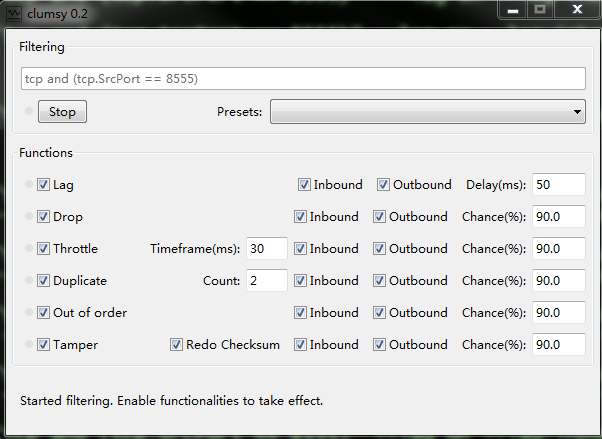
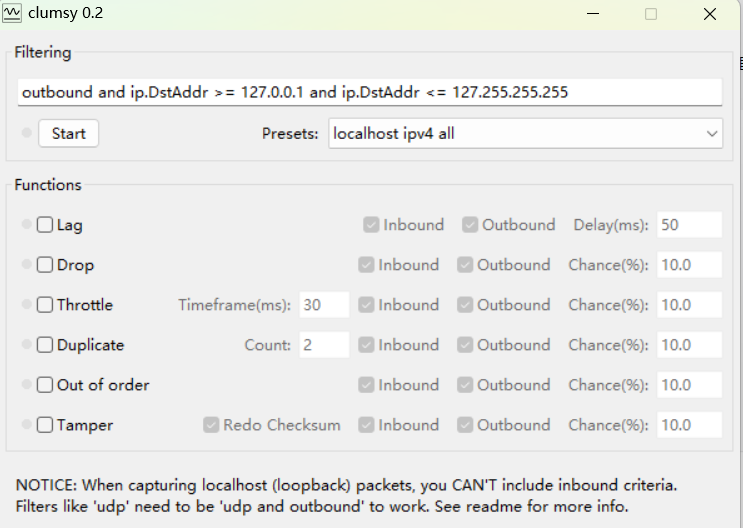
update

diff --git a/_posts/2018-05-06-网络干扰模拟.md b/_posts/2018-05-06-网络干扰模拟.md
@@ -14,11 +14,11 @@ excerpt_separator: <!--more-->
 
 # 1. 背景
 
-有一回一个Windows软件部署到草原，通过WIFI网络访问几公里之外的视频源，由于网络不好，图像严重卡顿、引发异常崩溃，当时公司环境无法模拟，也不能远程调试软件，阻碍项目交付。这也是许多**ToB行业常见现象，开发环境中网络QoS很好，生产环境却各有差异，由于除了插拔网线之外难以模拟网络QoS的变化，继而忽视此类测试，自然而然留下了可靠性问题，同样由于没有模拟环境，此类问题很难快速解决。**
+有一回一个Windows软件部署到草原，通过WIFI网络访问几公里之外的视频源，由于网络不好，图像严重卡顿、引发崩溃。当时公司环境无法模拟，也不能远程调试软件，阻碍交付和回款。这也是许多**ToB行业常见现象，开发环境一切很好，生产环境各有差异，结果千奇百态。由于除了插拔网线之外难以模拟网络QoS变化，继而忽视此类测试，自然而然留下了可靠性问题，很难快速解决。**
 
-其实软件行业发展数十年，你遇到的大多数基础问题早就被解决过不止一次，Google一搜就找到[How can I simulate a bad internet connection for testing purposes?](https://gamedev.stackexchange.com/questions/61483/how-can-i-simulate-a-bad-internet-connection-for-testing-purposes)，MAC/Linux/Windows主流操作系统都有方案，Windows上开发环境用[Clumsy](https://github.com/jagt/clumsy)轻松模拟出网络QoS变化后每次都能复现崩溃，后面顺理成章地解决了问题。
+其实软件行业发展数十年，你遇到的大多数基础问题早就被解决过不止一次，Google找到[How can I simulate a bad internet connection for testing purposes?](https://gamedev.stackexchange.com/questions/61483/how-can-i-simulate-a-bad-internet-connection-for-testing-purposes)，MAC/Linux/Windows主流操作系统都有方案，Windows上用[Clumsy](https://github.com/jagt/clumsy)轻松模拟出网络QoS变化后每次都能复现崩溃，后面顺理成章地解决了问题。
 
-即便如此，**事后解决再多bug都是下策，因为此时已经消耗了各个角色的时间和人心成本，修修补补可以提高下限，要突破软件价值的上限天花板，节省成本，从而把资源投入到追寻更高价值的活动上来，应在计划之初重视软件使用和依赖环境，从软件六性出发完善测试用例，虽然有困难、做不到完美，但比无视会强很多，这样从一开始就帮助各个角色对软件产品使用和依赖环境有一个框架性认知，开展具体工作时除了计划中的眼下一亩三分地，还能看到最后的要求和约束，落实到每一项工作，否则容易走偏，这就是品质之道。**
+即便如此，**事后解决再多bug也不算光荣，因为已经消耗了各个角色的时间和人心成本，修修补补可以提高下限，要突破软件价值的上限天花板，节省成本、把资源投入到追寻更高价值的活动上来，应在计划之初重视软件使用和依赖环境，从软件六性出发完善测试用例，虽有困难、也一定做不到全面，但从一开始就帮助各个角色对软件使用和依赖环境有一个框架性认知对齐，每个人做眼下的具体工作时仍然知道有一个最后的目标和约束，从而保障每一项工作更贴合长远方向、更仔细，避免走偏、低质，这就是品质之道。**
 
 下面简单介绍下Clumsy。
 
@@ -29,21 +29,25 @@ excerpt_separator: <!--more-->
 
 ## 2.1. 运行
 
-下载后可以手动点击软件，在**filtering**下方**Presets**下拉框选择某个常用选项后会自动产生数据包的过滤器填写到输入框，你也可以继续手动编辑过滤器。点击**Stop**按钮关闭干扰，再次点击即可开启。
+下载后手动点击软件，默认过滤条件是**Presets**右侧的**localhost ipv4 all**，作为过滤器显示到**Filtering**输入框，你可以继续编辑。
 
-![clumsy示例](/assets/img/post/2018-05-06-clumsy/clumsy.png)
+![clumsy](/assets/img/post/2018-05-06-clumsy/clumsy.png)
 
-或者通过命令行启动软件，要求对来自8555的TCP数据包执行干扰：
+点击**Start**开始干扰，点击**Stop**(和Start同一个)按钮关闭干扰。
+
+或者通过命令行启动软件，干扰来自8555的TCP数据包：
 
 `clumsy.exe --filter "tcp and (tcp.SrcPort == 8555)" --lag on --lag-inbound on --lag-outbound on --lag-delay 90 --drop on --drop-inbound on --drop-outbound on --drop-chance 90.0  --throttle on --throttle-timeframe 30 --throttle-inbound on --throttle-outbound on --throttle-chance 90.0  --duplicate on --duplicate-count 2 --duplicate-inbound on --duplicate-outbound on --duplicate-chance 90.0 --ood on --ood-inbound on --ood-outbound on --ood-chance 90.0  --tamper on --tamper-inbound on --tamper-outbound on --tamper-chance 90.0`
 
-**有了命令行支持，可以轻松使用Python之类脚本制作定时、按需干扰，通过定义不同干扰参数组合的测试用例，完善网络QoS变化的可靠性测试。**
+![clumsy_cmd](/assets/img/post/2018-05-06-clumsy/clumsy_cmd.png)
 
-## 2.2. 过滤器
+干扰方式如**Functions**下方参数，后面会介绍。**有了命令行支持，可以轻松使用Python之类脚本制作定时、按需干扰，通过定义不同干扰参数组合的测试用例，完善网络QoS变化的可靠性测试。**
 
-命令行中通过`--filter`指定网络参数来标识干扰什么样的网络包，比如指定源IP、TCP/UDP，以及端号等多种过滤条件的组合。和编辑点击GUI中**filtering**区域效果一致。由于拦截数据包的核心功能依赖[WinDivert](https://github.com/basil00/Divert)，所以过滤器语法也依赖WinDivert。
+## 2.2. Filtering-过滤器
 
-## 2.3. 干扰途径
+命令行中通过`--filter`指定参数来标识干扰符合条件的网络包，比如指定源IP、TCP/UDP，以及端号等多种过滤条件的组合。和编辑点击GUI中**Filtering**效果一致。由于拦截数据包的核心功能依赖[WinDivert](https://github.com/basil00/Divert)，所以过滤器语法也须参考WinDivert。
+
+## 2.3. Functions-干扰途径
 
 * lag，减慢数据包速度。
 * drop，丢包。
